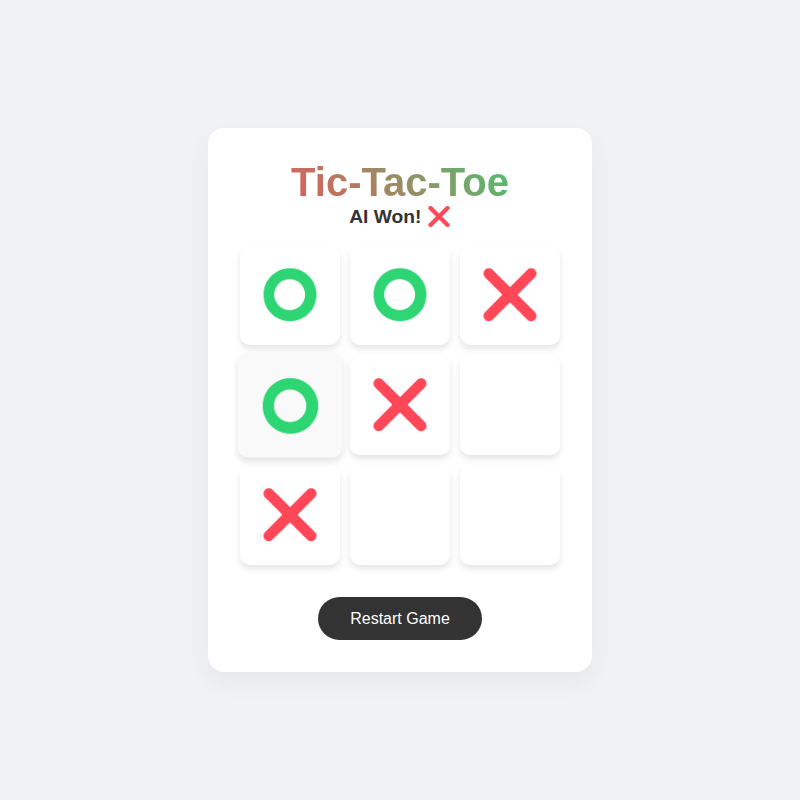
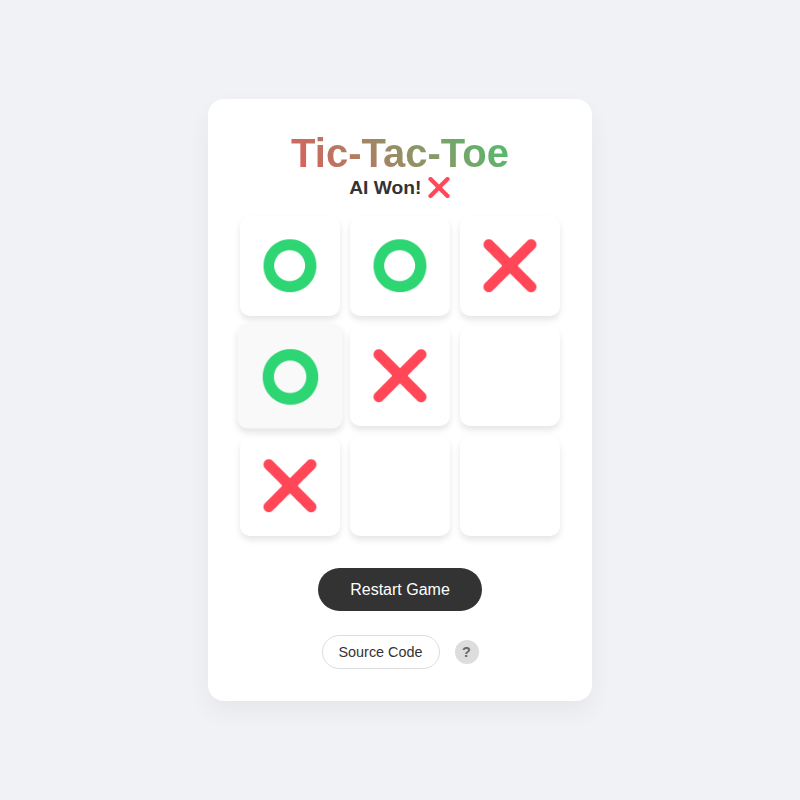
Add GitHub link and How-to-Play tooltip to footer

diff --git a/static/style.css b/static/style.css
@@ -115,3 +115,104 @@ h1 {
         font-size: 2.5rem;
     }
 }
+
+/* Footer Controls */
+.footer-controls {
+    display: flex;
+    justify-content: center;
+    align-items: center;
+    gap: 15px;
+    margin-top: 1.5rem;
+}
+
+.github-btn {
+    text-decoration: none;
+    color: var(--text-color);
+    border: 1px solid #ddd;
+    padding: 0.5rem 1rem;
+    border-radius: 20px;
+    font-size: 0.9rem;
+    transition: all 0.2s;
+}
+
+.github-btn:hover {
+    background-color: #f0f0f0;
+    border-color: #ccc;
+}
+
+.help-container {
+    position: relative;
+    cursor: pointer;
+}
+
+.help-icon {
+    display: inline-flex;
+    justify-content: center;
+    align-items: center;
+    width: 24px;
+    height: 24px;
+    background-color: #ddd;
+    color: #666;
+    border-radius: 50%;
+    font-weight: bold;
+    font-size: 0.9rem;
+    transition: background-color 0.2s;
+}
+
+.help-container:hover .help-icon {
+    background-color: #ccc;
+    color: #333;
+}
+
+/* Tooltip */
+.tooltip {
+    visibility: hidden;
+    opacity: 0;
+    position: absolute;
+    bottom: 140%; /* Position above the icon */
+    left: 50%;
+    transform: translateX(-50%);
+    background-color: #333;
+    color: white;
+    padding: 1rem;
+    border-radius: 8px;
+    width: 250px;
+    text-align: left;
+    font-size: 0.85rem;
+    box-shadow: 0 4px 10px rgba(0,0,0,0.2);
+    transition: opacity 0.2s, visibility 0.2s;
+    z-index: 10;
+}
+
+.tooltip::after {
+    content: "";
+    position: absolute;
+    top: 100%;
+    left: 50%;
+    margin-left: -5px;
+    border-width: 5px;
+    border-style: solid;
+    border-color: #333 transparent transparent transparent;
+}
+
+.help-container:hover .tooltip {
+    visibility: visible;
+    opacity: 1;
+}
+
+.tooltip h3 {
+    margin-top: 0;
+    margin-bottom: 0.5rem;
+    font-size: 1rem;
+    border-bottom: 1px solid #555;
+    padding-bottom: 0.3rem;
+}
+
+.tooltip ul {
+    margin: 0;
+    padding-left: 1.2rem;
+}
+
+.tooltip li {
+    margin-bottom: 0.3rem;
+}

diff --git a/static/index.html b/static/index.html
@@ -27,6 +27,22 @@
         </div>
 
         <button id="restart" class="restart-btn">Restart Game</button>
+
+        <div class="footer-controls">
+            <a href="https://github.com/DVDJNBR/TICTACTOE" target="_blank" class="github-btn" aria-label="View Source on GitHub">Source Code</a>
+            <div class="help-container">
+                <span class="help-icon">?</span>
+                <div class="tooltip">
+                    <h3>How to Play</h3>
+                    <ul>
+                        <li>You are assigned X or O randomly.</li>
+                        <li>Click empty cells to make a move.</li>
+                        <li>Get 3 in a row to win.</li>
+                        <li>The AI uses Minimax and is unbeatable!</li>
+                    </ul>
+                </div>
+            </div>
+        </div>
     </div>
     <script src="script.js"></script>
 </body>
